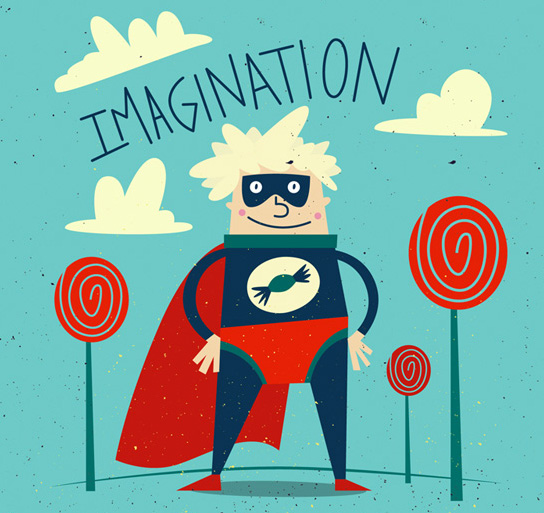
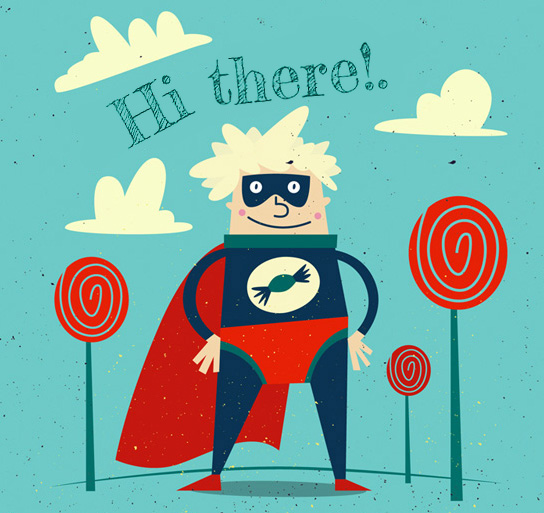
update landing page

Changed region(s): [[0.1562, 0.0624, 0.75, 0.3119]]

diff --git a/src/app/scripts/pages/landing/landing.view.html b/src/app/scripts/pages/landing/landing.view.html
@@ -12,28 +12,35 @@
             </ul>
         </nav>
         <img src="resources/img/imagination.jpg" alt="Mue Universe"/>
+        <p class="landing-imagination-description">You cannot imagine how glad I see you here</p>
     </section>
     <section class="landing-about">
         <p>
-            Lorem Ipsum is simply dummy text of the printing and typesetting industry.
-            Lorem Ipsum has been the industry's standard dummy text ever since the 1500s,
-            when an unknown printer took a galley of type and scrambled it to make a type specimen book.
-            It has survived not only five centuries, but also the leap into electronic typesetting,
-            remaining essentially unchanged. It was popularised in the 1960s with the release of Letraset
-            sheets containing Lorem Ipsum passages, and more recently with desktop publishing software
-            like Aldus PageMaker including versions of Lorem Ipsum.
+            About 3 years ago programming absorbed me. I like frontend and backend development. I started work under the
+            own project to learn and understand them deeply.
+            I have had a long way to go before I could present it to the public.
+            It is 3d reincarnation of my initial idea and first public version of it and
         </p>
 
         <p>
-            Lorem Ipsum is simply dummy text of the printing and typesetting industry.
-            Lorem Ipsum has been the <span class="landing-significant">industry's standard</span> dummy text ever since
-            the 1500s,
-            when an unknown printer took a galley of type and scrambled it to make a type specimen book.
-            It has survived not only five centuries, but also the leap into electronic typesetting,
-            remaining essentially unchanged. It was <a href="#" class="landing-significant">popularised</a> in the 1960s
-            with the release of Letraset
-            sheets containing Lorem Ipsum passages, and more recently with desktop publishing software
-            like Aldus PageMaker including versions of Lorem Ipsum.
+            <b>I am very pleased and proud to announce that <a class="landing-significant" href="http://rabbit.mue.in.ua">rabbit.mue.in.ua</a> was launched and ready for use.</b>
+        </p>
+
+        <p>
+            Follow the rabbit to save your time.
+            <a class="landing-significant" href="http://rabbit.mue.in.ua">rabbit.mue.in.ua</a> allows you to get easy access to your favorite rss feeds.
+            Just subscribe to your favorite feeds and Rabbit will do the rest.
+            Rabbit will help you to organize, read and share the content of your favorite sites
+        </p>
+
+        <p>
+            I decided that the Rabbit have to be presented to a small audience for usage and evaluation.
+            I am kindly asking you to be his judge. Your feedback is really important for me and I will be very thankful for them.
+            I have to understand whether my creation needed for people and if yes, what things have to be improved first of all.
+        </p>
+
+        <p>
+            Please provide me some <a class="landing-significant" href="mailto:mue.miv@gmail.com">feedback</a>. Your comments and suggestions would be greatly appreciated. Thank you for your time and effort.
         </p>
     </section>
 

diff --git a/src/app/resources/scss/partials/landing-page.scss b/src/app/resources/scss/partials/landing-page.scss
@@ -5,6 +5,12 @@
     overflow: hidden;
     background: url('../img/imagination_background_full.jpg') repeat center center;
 
+    .landing-imagination-description {
+      text-align: center;
+      font-size: 16px;
+      color: #1E6966;
+    }
+
     img {
       margin: 2% auto;
       display: block;

diff --git a/src/app/index.html b/src/app/index.html
@@ -7,6 +7,8 @@
 
     <meta name="viewport" content="width=device-width, initial-scale=1.0, maximum-scale=1.0, user-scalable=no" />
 
+    <title>Mue universe</title>
+
     <!-- build:style libs -->
     <link type="text/css" rel="stylesheet" href="/path/to/debug/lib1.css"/>
     <!-- /build -->
